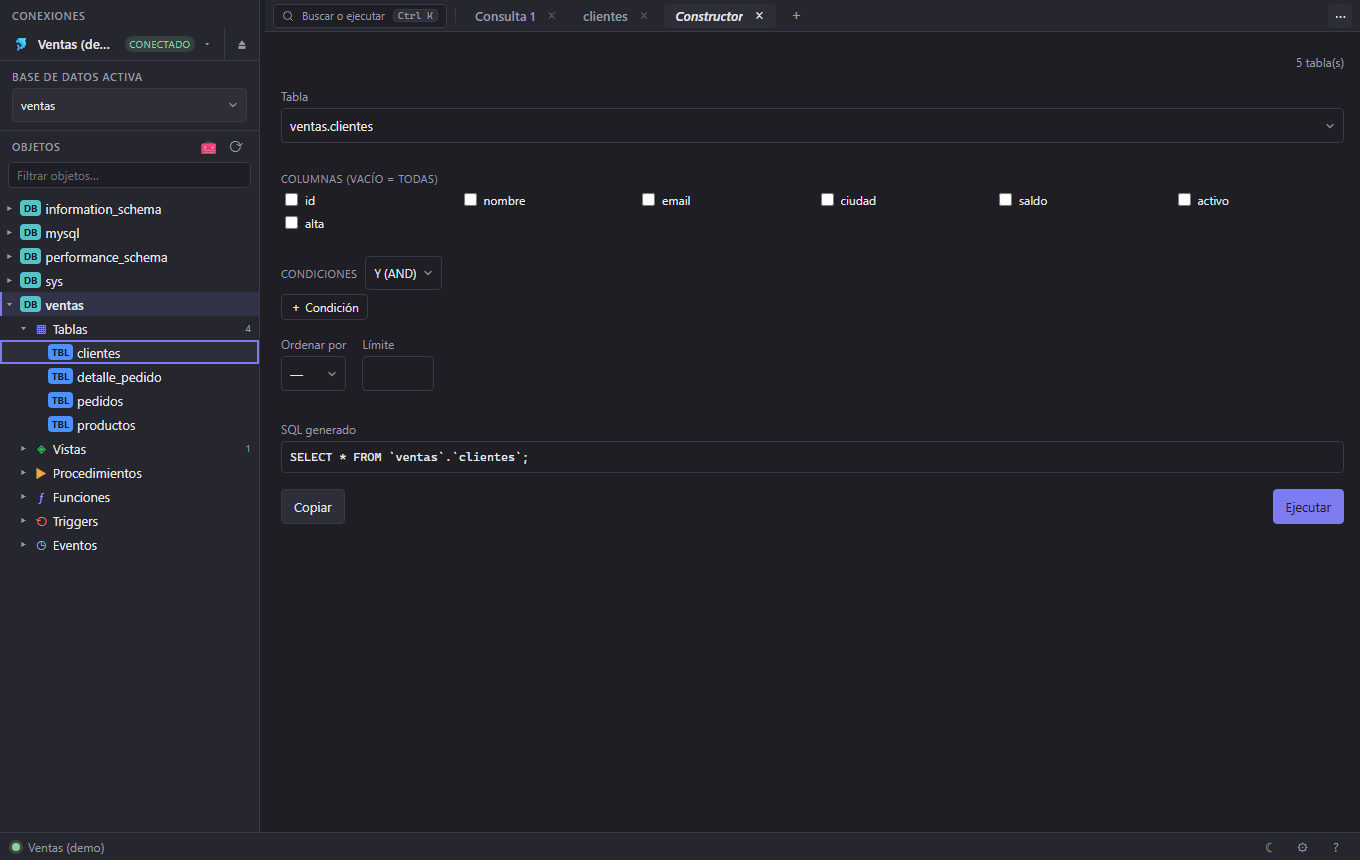
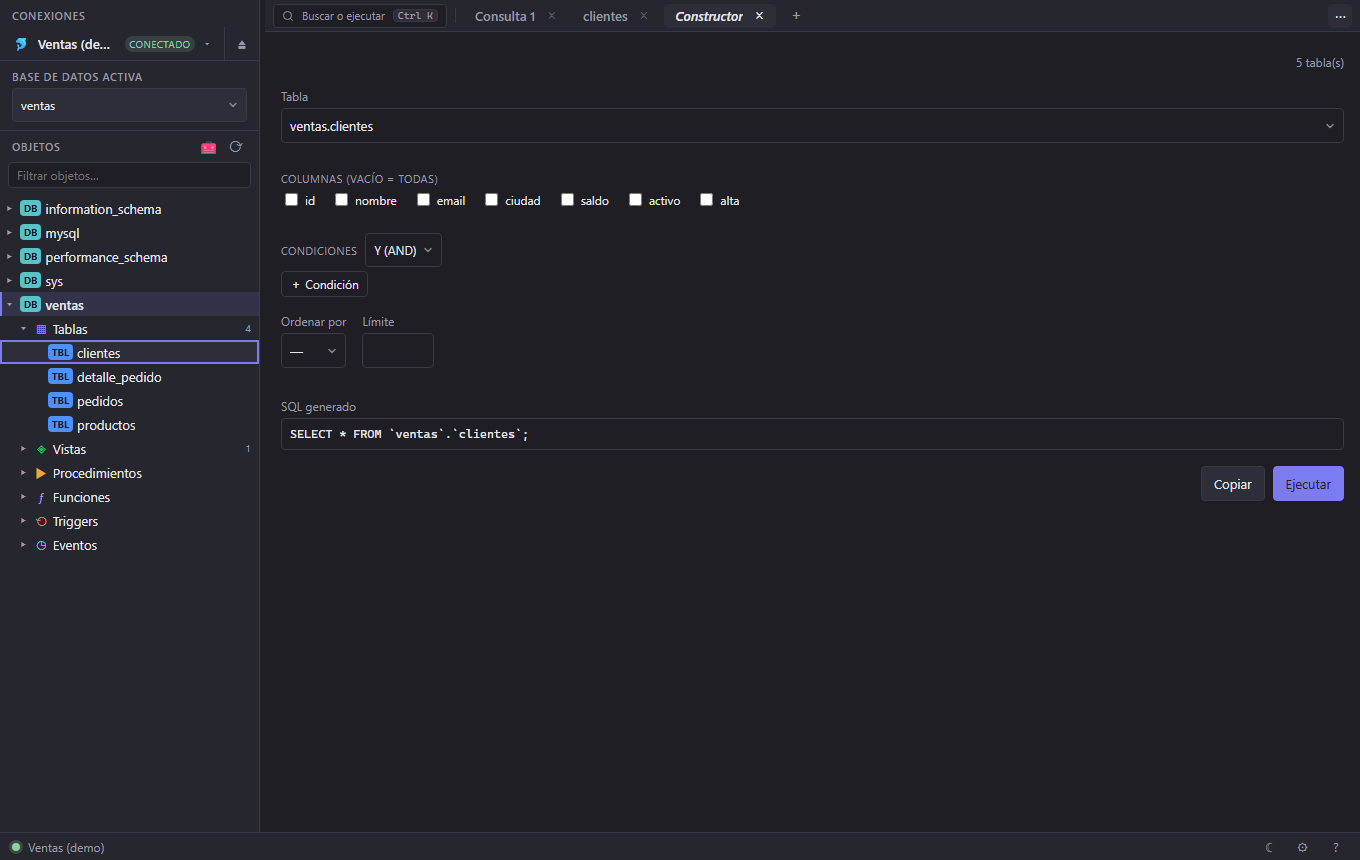
fix(frontend): the screen details the audit caught (refs #386)
Three of them, plus the decision the fourth one needed.

The builder laid its column checkboxes out on 10rem grid tracks, so a wide pane
made six columns and left the seventh column of the table — `alta` — alone on a
row with five empty cells beside it. Checkbox labels are short and uneven;
letting them pack keeps the leftovers on the same line. And its two buttons sat
a thousand pixels apart, Copiar pinned left and Ejecutar right, because a
`.modal-actions` row written for a dialog was being used across a full-width
tool pane. The row ends its buttons at the right now; every panel that
deliberately splits them into two groups puts a flex:1 spacer between, and a
spacer eats the free room before `justify-content` can, so those are unchanged.

Empty states were a plain line of text in the top-left corner of a 600 px area
("Selecciona un usuario para ver sus permisos."). One that IS the pane now takes
the room the pane gives it and centres in it; a note that has siblings keeps
sitting where it is written, because "solo se cargaron los primeros N" belongs
next to what it qualifies.

And the app had exactly one transition in 105 KB of CSS, which reads as an
oversight rather than as a decision. It is a decision, so it is written down
now: this is a tool, the chrome does not animate, and the one exception — a
thing that appears or disappears on its own — goes through --motion-fast. A
test keeps any other transition from arriving unannounced, and
[…]

diff --git a/frontend/src/styles.css b/frontend/src/styles.css
@@ -157,6 +157,15 @@
   --band-md: 32px;
   --band-lg: 40px;
 
+  /* Movimiento (issue #386). La app tenía UNA transición en 105 KB de CSS, y
+     una sola es indistinguible de un descuido. La decisión, escrita: esto es una
+     herramienta, no una presentación — **el cromo no se anima**. El hover, la
+     selección, abrir un panel y cambiar de pestaña son instantáneos, porque una
+     espera de 200 ms repetida cien veces al día es tiempo del usuario.
+     Lo único que se desvanece es lo que aparece y desaparece por sí solo, para
+     que no dé un salto: ahí va este token y ningún otro. */
+  --motion-fast: 90ms;
+
   /* Per-object-type identity colours (design proposal).
      Distinct, vivid hues — the single strongest "this is a database tool"
      recognition signal. Shared across the tree, object lists and tabs. Dark
@@ -193,6 +202,20 @@
 :focus-visible {
   outline: 2px solid var(--accent);
   outline-offset: 2px;
+}
+
+/* Nobody who asked the system for less motion should have to argue with a
+   stylesheet about it. Cheap here because there is almost nothing to switch
+   off — which is the point of the rule above. */
+@media (prefers-reduced-motion: reduce) {
+  *,
+  *::before,
+  *::after {
+    transition-duration: 0.01ms !important;
+    animation-duration: 0.01ms !important;
+    animation-iteration-count: 1 !important;
+    scroll-behavior: auto !important;
+  }
 }
 
 /* --- One control vocabulary (issue #386) ---------------------------------
@@ -945,7 +968,7 @@ body {
    tabs reads calmly (chrome visual pass). */
 .tab .tab-close {
   opacity: 0.45;
-  transition: opacity 0.1s;
+  transition: opacity var(--motion-fast);
 }
 
 .tab:hover .tab-close,
@@ -1391,6 +1414,24 @@ body {
 .grid-error {
   padding: var(--sp-4);
   color: var(--text-dim);
+}
+
+/* An empty state that IS the pane, rather than a note inside one (issue #386).
+   "Selecciona un usuario para ver sus permisos." was a plain line of text stuck
+   to the top-left corner of a 600 px area; it takes the room the pane gives it
+   and centres in it. `:only-child` catches the panes that hand it the whole
+   area, `.pane-empty` says so where it has a toolbar above it but is still all
+   the content there is. A note WITH siblings keeps sitting where it is written:
+   "solo se cargaron los primeros N" belongs next to what it qualifies. */
+.grid-empty:only-child,
+.grid-empty.pane-empty {
+  flex: 1;
+  min-height: 100%;
+  display: grid;
+  place-content: center;
+  justify-items: center;
+  text-align: center;
+  padding: var(--sp-6);
 }
 
 /* Running state: "Ejecutando…" with a Cancelar button beside it (cancelable
@@ -1971,9 +2012,15 @@ kbd {
   font-family: var(--font-mono);
 }
 
+/* Buttons end together at the right, the way a dialog footer reads (issue
+   #386). Wherever a panel deliberately splits them into two groups it puts a
+   flex:1 spacer between, and a spacer eats the free room before this can — so
+   this changes nothing there and everything in a full-width tool pane, where
+   the two buttons used to sit a thousand pixels apart. */
 .modal-actions {
   display: flex;
   align-items: center;
+  justify-content: flex-end;
   gap: var(--sp-3);
   margin-top: var(--sp-5);
 }
@@ -3941,10 +3988,14 @@ button.grid-action.danger:hover:not(:disabled) {
   margin: var(--sp-3) 0;
 }
 
+/* Packed, not gridded (issue #386): fixed 10rem tracks meant a wide pane laid
+   out six columns and left the seventh column of the table — `alta` — alone on
+   a row of its own, five empty cells beside it. Checkbox labels are short and
+   uneven; letting them pack keeps the leftovers on the same line. */
 .qb-cols {
-  display: grid;
-  grid-template-columns: repeat(auto-fill, minmax(10rem, 1fr));
-  gap: var(--sp-2) var(--sp-3);
+  display: flex;
+  flex-wrap: wrap;
+  gap: var(--sp-2) var(--sp-5);
   margin-top: var(--sp-2);
 }
 

diff --git a/frontend/tests/styles.test.ts b/frontend/tests/styles.test.ts
@@ -44,6 +44,7 @@ describe("styles.css scales", () => {
       "--h-micro", "--h-sm", "--h-md",
       "--band-sm", "--band-md", "--band-lg",
       "--shadow-sm", "--shadow-lg", "--focus-ring",
+      "--motion-fast",
     ]) {
       expect(CSS, `${token} is not defined`).toContain(`  ${token}:`);
     }
@@ -138,5 +139,23 @@ describe("styles.css keyboard focus", () => {
 
   it("draws a ring on :focus-visible", () => {
     expect(CSS).toMatch(/:focus-visible \{\s+outline: 2px solid var\(--accent\);/);
+  });
+});
+
+// Issue #386: the app had exactly one transition in 105 KB of CSS, which reads
+// as an oversight rather than as the decision it is. The decision — chrome does
+// not animate — only holds if it stays written down and the exceptions go
+// through the token.
+describe("motion", () => {
+  it("times every transition from the motion token", () => {
+    const durations = Array.from(
+      stripComments(RULES).matchAll(/transition(?:-duration)?:\s*([^;{}]+);/g),
+      (m) => m[1].trim(),
+    ).filter((v) => !v.includes("var(--motion-") && !v.includes("0.01ms"));
+    expect(durations).toEqual([]);
+  });
+
+  it("honours prefers-reduced-motion", () => {
+    expect(CSS).toContain("@media (prefers-reduced-motion: reduce)");
   });
 });

diff --git a/frontend/src/components/ChartView.tsx b/frontend/src/components/ChartView.tsx
@@ -126,7 +126,7 @@ export function ChartView(props: { result: ResultSet; onClose: () => void }) {
 
       <Show
         when={hasData()}
-        fallback={<p class="grid-empty">{t("chart.pickHint")}</p>}
+        fallback={<p class="grid-empty pane-empty">{t("chart.pickHint")}</p>}
       >
         <div class="chart-canvas">
           <svg viewBox={`0 0 ${W} ${H}`} class="chart-svg" role="img" aria-label={t("chart.aria", { type: t(`chart.${type()}`) })}>

diff --git a/frontend/src/components/QueryBuilder.tsx b/frontend/src/components/QueryBuilder.tsx
@@ -293,7 +293,6 @@ export function QueryBuilder(props: {
             <button onClick={() => copyText(sql())} disabled={!sql()}>
               {t("editor.copy")}
             </button>
-            <span class="status-spacer" />
             <button class="primary" disabled={!sql()} onClick={() => props.onRun(sql())}>
               {t("editor.run")}
             </button>
